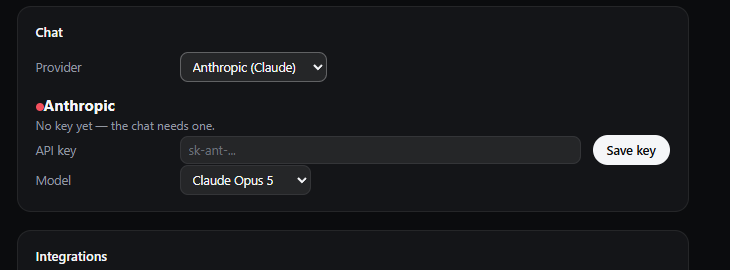
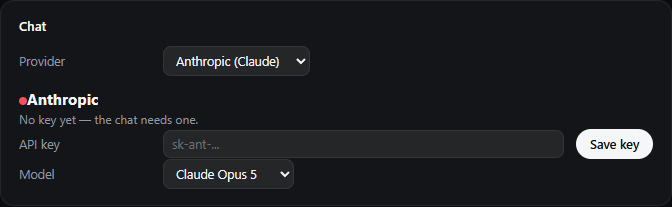
docs+test(windows): web search + PDF parsing, refreshed screenshots

diff --git a/windows/src-tauri/src/openai.rs b/windows/src-tauri/src/openai.rs
@@ -282,6 +282,25 @@ mod tests {
     }
 
     #[test]
+    fn pdf_from_disk_becomes_file_part_on_openrouter() {
+        // NOTE: live PDF turns need ≥$0.50 OpenRouter balance (code 402
+        // otherwise), so the wire shape is pinned here and was verified
+        // against the official file-parser docs/examples.
+        let pdf = b"%PDF-1.4\n1 0 obj<</Type/Catalog/Pages 2 0 R>>endobj\ntrailer<</Root 1 0 R>>";
+        let path = std::env::temp_dir().join("coucou-shape.pdf");
+        std::fs::write(&path, pdf).unwrap();
+        let (parts, used) = file_parts(&path.to_string_lossy(), true);
+        let _ = std::fs::remove_file(&path);
+        assert!(used);
+        assert_eq!(parts.len(), 1);
+        assert_eq!(parts[0]["type"], "file");
+        assert_eq!(parts[0]["file"]["filename"], "coucou-shape.pdf");
+        assert!(parts[0]["file"]["file_data"]
+            .as_str()
+            .unwrap()
+            .starts_with("data:application/pdf;base64,"));
+    }
+    #[test]
     fn web_tool_injected_only_when_asked() {
         let on = body_full("m", "s", &[], vec![], true);
         assert_eq!(

diff --git a/windows/README.md b/windows/README.md
@@ -83,8 +83,12 @@ behaves exactly as before; **OpenAI-compatible** uses one client for every
 The model field is free text (`gpt-5.4-mini`, `openai/gpt-4o`, `llama3.1`, …)
 and the provider's own error message is shown when it is wrong. Switching
 providers resets the chat history, since the two wire formats never mix.
-Web search and PDF-as-document are Anthropic-only and quietly skipped on the
-generic path; images and text files work on both.
+
+On OpenRouter you also get the two features that are skipped elsewhere:
+**Web search** (opt-in checkbox, off by default — each search spends a little
+of your OpenRouter credits) and **PDF parsing** via the free `pdf-text`
+engine (scanned-PDF OCR stays off so it can never bill you silently).
+Note: OpenRouter requires at least $0.50 balance for file requests.
 
 Keys live in the **Windows Credential Manager**, never on disk and never in
 the interface — the island can only ask whether a key exists. Same for every
